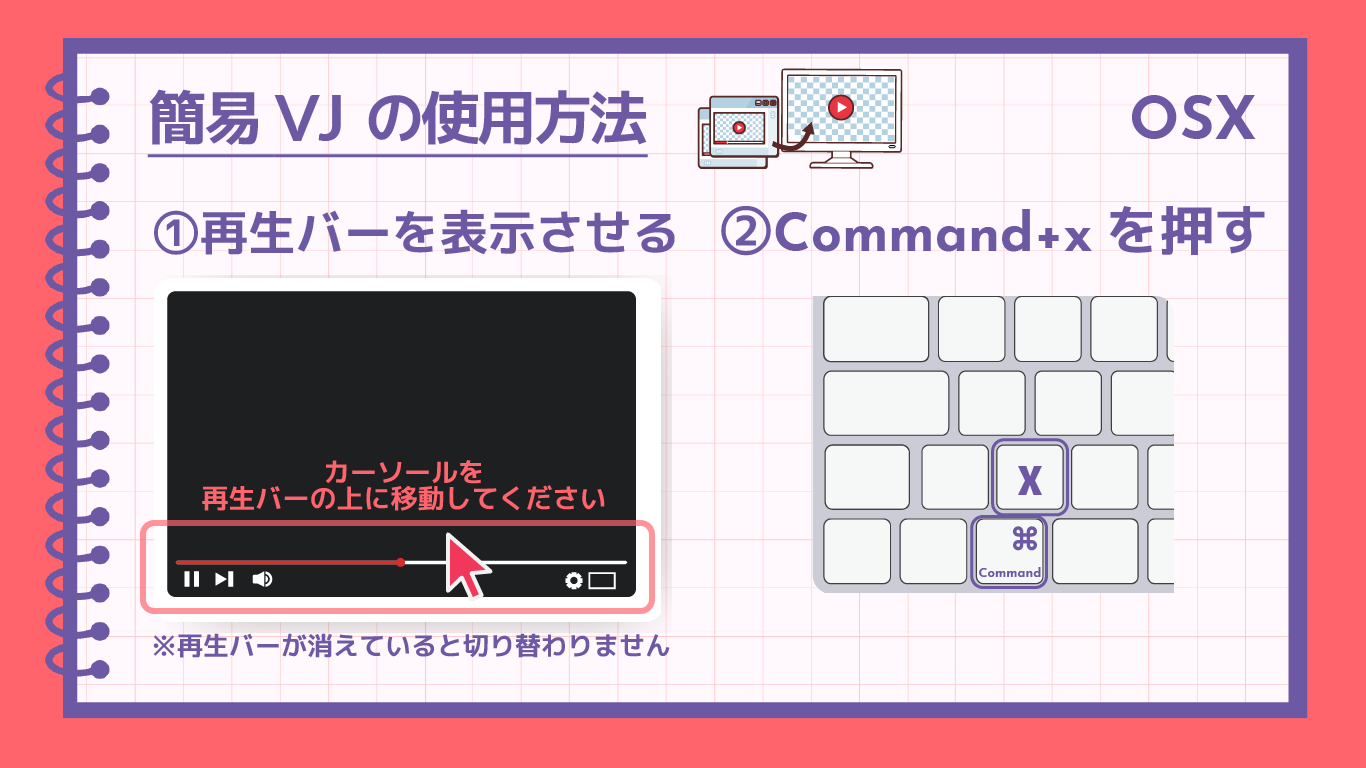
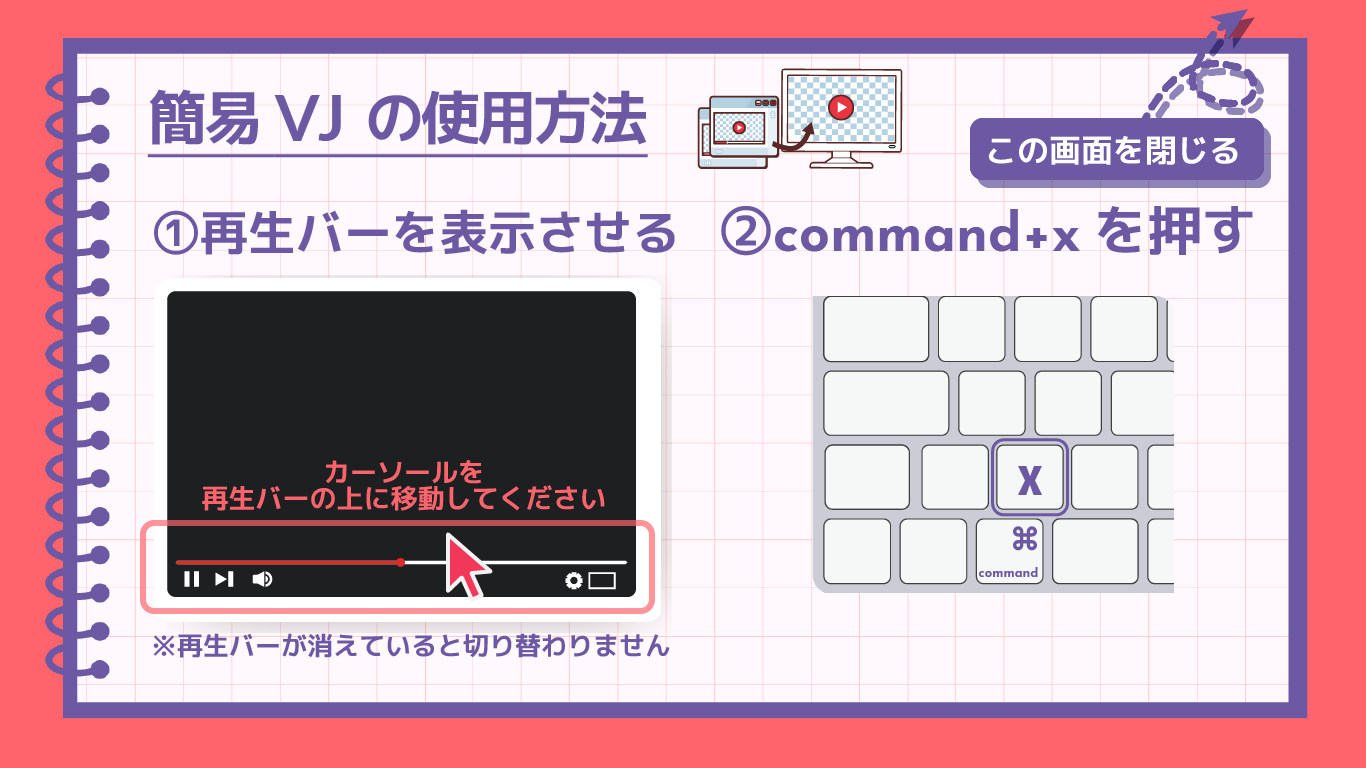
How To画面修正

Changed region(s): [[0.5534, 0.0, 0.9531, 0.3438], [0.7072, 0.7188, 0.7687, 0.7812], [0.7072, 0.6562, 0.7687, 0.6875]]

diff --git a/js/main.js b/js/main.js
@@ -148,7 +148,7 @@ function changeScene(opacity, duration) {
 window.onload = function () {
   var os = platform.os.toString().toLowerCase();
   console.log(os);
-  text = null;
+  imageUrl = null;
   if (os.indexOf("windows") !== -1) {
     imageUrl = '../evs/img/announce_windows.png';
   } else if (os.indexOf("os x") !== -1) {
@@ -158,16 +158,11 @@ window.onload = function () {
   }
   // ページ読み込み時に実行したい処理
   Swal.fire({
-    // imageUrl: 'https://github.com/fuwa10/evs/blob/main/img/announce_osx.png?raw=true',
-    imageUrl: '../evs/img/announce_osx.png',
-    // imageAlt: 'HowToUse',
-    // customClass: 'swal-custom',
+    imageUrl: imageUrl,
     confirmButtonColor: "#6C58A3",
     showCloseButton: true,
     grow: "fullscreen",
     showConfirmButton: false,
-
-    // text: text,
   });
 };
 
